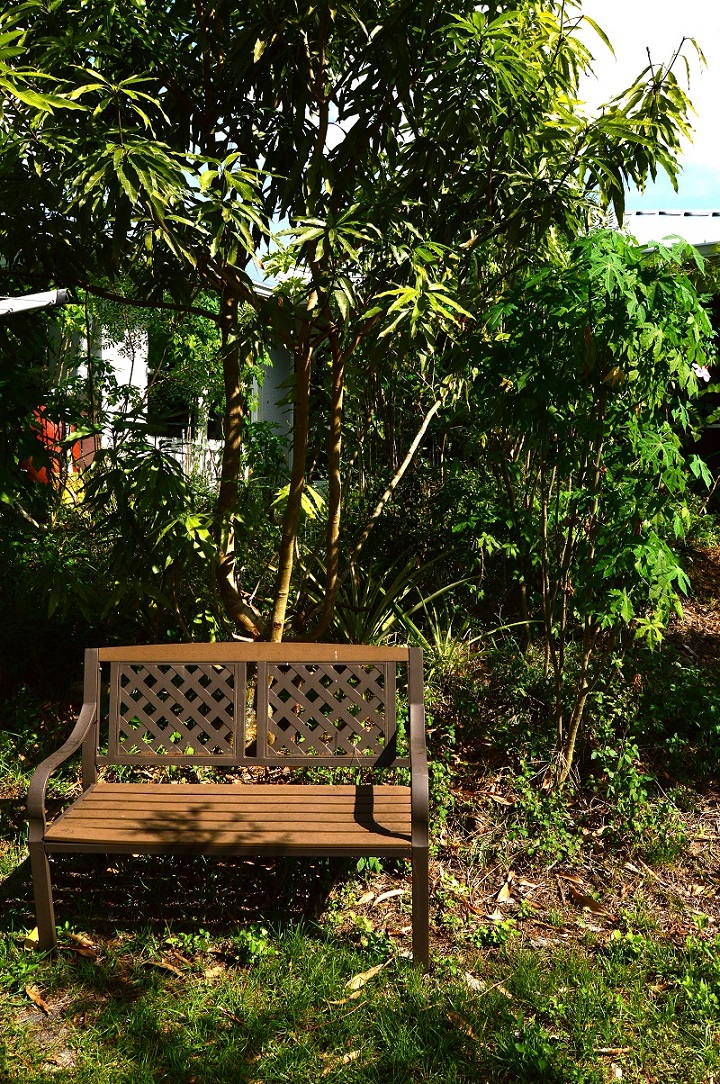
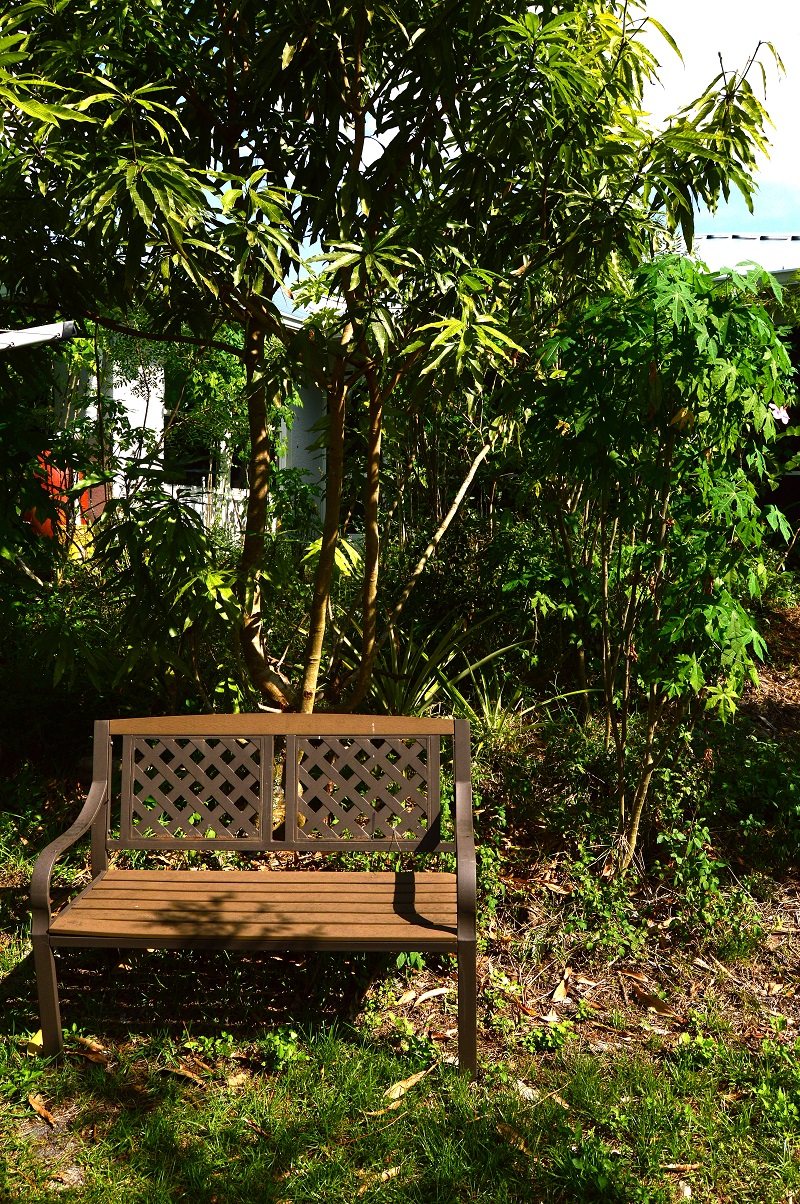
edits

diff --git a/index.html b/index.html
@@ -24,6 +24,7 @@
 <script src="site_libs/highlightjs-9.12.0/highlight.js"></script>
 <link href="site_libs/font-awesome-5.1.0/css/all.css" rel="stylesheet" />
 <link href="site_libs/font-awesome-5.1.0/css/v4-shims.css" rel="stylesheet" />
+<div><img src="images/home/DSC_0580_cover.JPG" align="middle"></div>
 <!-- Global site tag (gtag.js) - Google Analytics -->
 <script async src="https://www.googletagmanager.com/gtag/js?id=UA-137406927-1"></script>
 <script>
@@ -378,10 +379,16 @@ $(document).ready(function () {
 </div>
 
 
-<p><img src="images/Umboniacrassicornis%20.jpg" width="50%" style="display: block; margin: auto;" /></p>
-<p>If you are looking for information about Kara Tyler-Julian and her freelance educational work, you have come to the right place. Have a look around and send me a message if you wish. Are you looking to learn about native plants, food forests, insects, or a combination of those topics? Check out my <a href="https://karatylerjulian.github.io/presentations.html" target="_blank">presentation</a> page to see the topics I am knowledgeable in and <a href="https://karatylerjulian.github.io/contactme.html" target="_blank">contact me</a> for more information.</p>
+<!--
+<center><img src="images/home/DSC_0580.JPG" width="50%" vspace="1" hspace="1"></center>
+-->
+<p><br> If you are looking for information about Kara Tyler-Julian and her freelance educational work, you have come to the right place. Have a look around and send me a message if you wish. Are you looking to learn about native plants, food forests, insects, or a combination of those topics? Check out my <a href="https://karatylerjulian.github.io/presentations.html" target="_blank">presentation</a> page to see the topics I am knowledgeable in and <a href="https://karatylerjulian.github.io/contactme.html" target="_blank">contact me</a> for more information.</p>
 <p>Thank you for visiting!</p>
-<p><img src="images/mantid.jpg" width="50%" style="display: block; margin: auto;" /></p>
+<br>
+<center>
+<img src="images/home/DSC_1052.JPG" width="60%" vspace="1" hspace="1">
+</center>
+<p><br></p>
 <hr />
 <p>Webpage developed using <a href="https://github.com/privefl/rmarkdown-website-template" target="_blank">rmarkdown website template</a> developed by <a href="https://github.com/privefl" target="_blank">privefl</a></p>
 

diff --git a/images/home/home_header.html b/images/home/home_header.html
@@ -1,0 +1,1 @@
+<div><img src="images/home/DSC_0580_cover.JPG" align="middle"></div>
